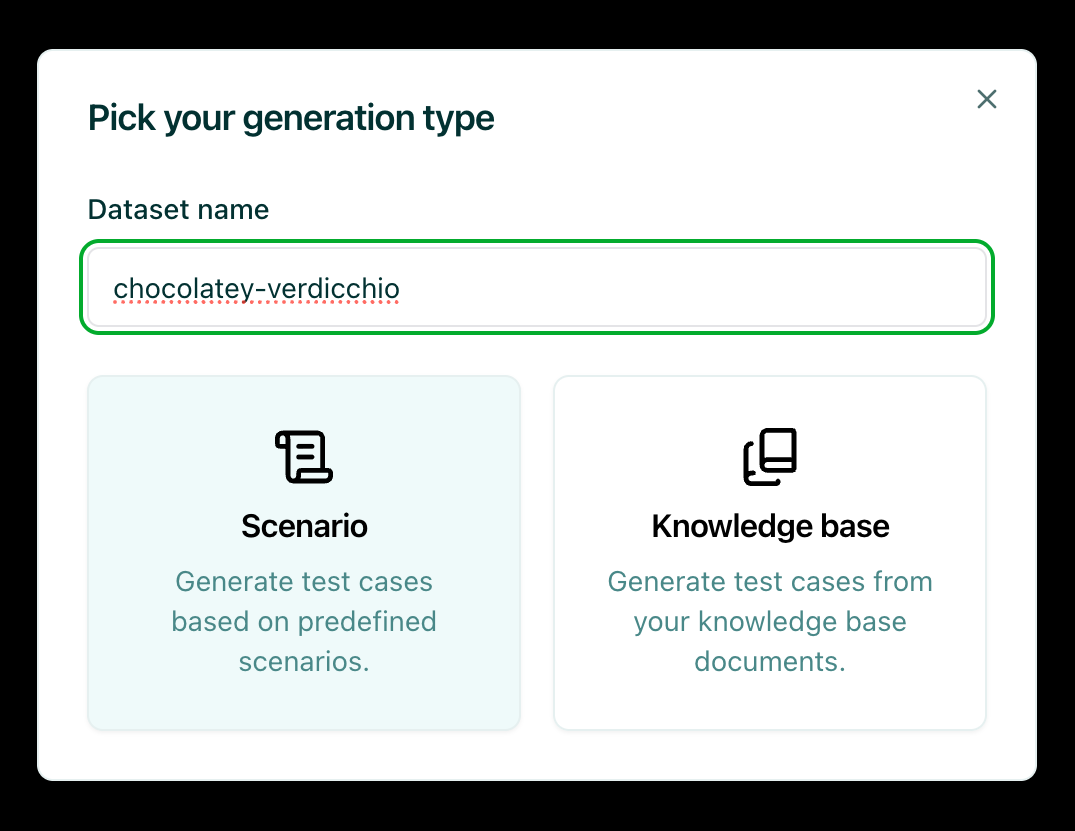
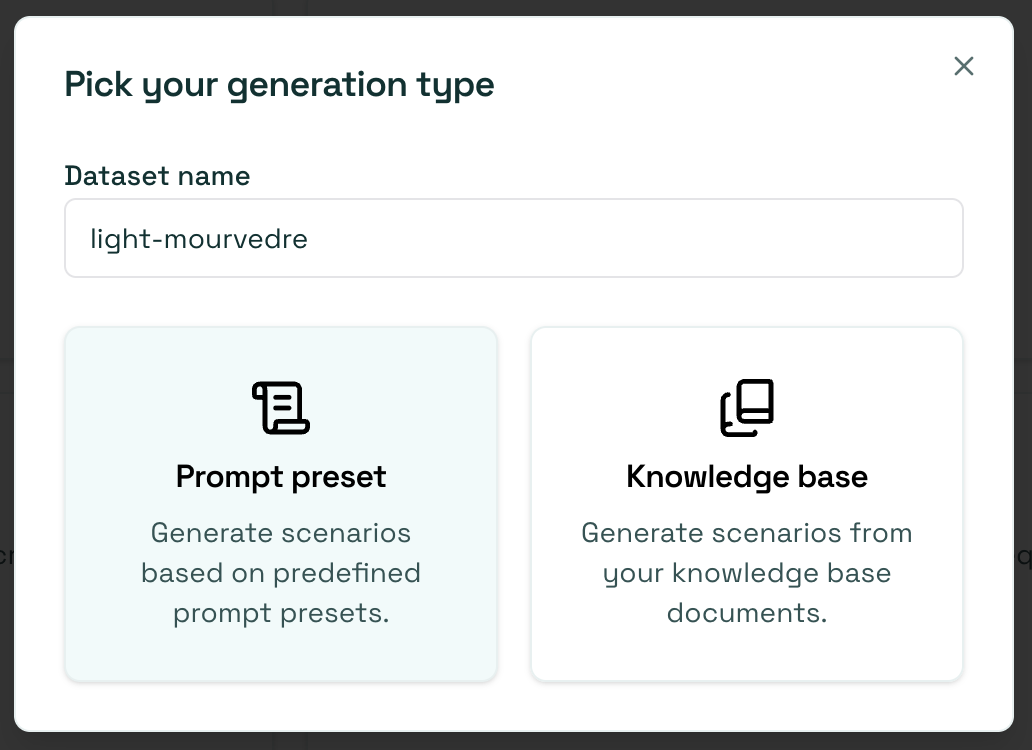
Refresh prompt preset scenarios page for new generation flow

diff --git a/src/content/docs/hub/ui/datasets/prompt-preset.md b/src/content/docs/hub/ui/datasets/prompt-preset.md
@@ -20,26 +20,28 @@ By moving from generic stress testing to rule-driven scenarios, you get higher q
 
 ## Getting started
 
-To begin, navigate to the Datasets page and click **Generate** in the upper-right corner of the screen. This will open a modal with two options: Knowledge Base and Prompt preset. Select the **Prompt preset** option.
+To begin, navigate to the Datasets page and click **Generate** in the upper-right corner of the screen. This opens the **Pick your generation type** modal with two options: Prompt preset and Knowledge base. Select the **Prompt preset** option.
 
 ![Select prompt preset option from generation modal](/_static/images/hub/scenario-select.png)
 
-## Select or create a persona
+Starting from the Datasets page, the modal also asks for a **Dataset name**: the scenarios land in a new dataset created on the fly. Starting the generation from within an existing dataset skips this and adds the scenarios to that dataset.
 
-You'll see a subset of all the personas that you've defined---the user personas that might interact with your bots. You can select an existing one or create a new one.
+## Select or create a prompt preset
 
-![Persona selection interface for prompt preset testing](/_static/images/hub/scenario-persona-choose.png)
+Generation runs as a two-step flow. In step 1, **Choose or create**, you pick a prompt preset: a reusable bundle of personas, topics, tone, and rules that shapes the scenarios. Select one of the built-in presets or create your own.
 
-When creating a new persona, it's always nice to have:
+![Prompt preset selection interface](/_static/images/hub/scenario-persona-choose.png)
 
-- **A descriptive name**: This helps identify the persona quickly
-- **A description**: This helps with the generation understanding and ensures the generated scenarios align with your intended persona
+When creating a new prompt preset, it's always nice to have:
+
+- **A descriptive name**: This helps identify the preset quickly
+- **A description**: This guides the generation and keeps the scenarios aligned with your intended personas
 
 ## Define rules
 
 You can then add specific rules that define behaviors your agent should respect and that are at risk of being broken when interacting with the selected personas. These rules help evaluate different persona situations and will be used to generate scenarios that specifically test whether your agent maintains these behaviors.
 
-![Persona configuration form with name, description, and rules](/_static/images/hub/scenario-persona-create.png)
+![Add prompt preset form with name, description, and rules](/_static/images/hub/scenario-persona-create.png)
 
 For example:
 
@@ -49,18 +51,19 @@ For example:
 - **Persona**: Crypto investor seeking investment advice
 - **Rules**: Refuse to provide unauthorized financial advice and avoid making specific investment recommendations
 
-After defining a set of rules, you can add them to the prompt preset.
+After defining a set of rules, click **Add** to save the prompt preset.
 
 ## Generate scenarios
 
-Once you've configured your persona and rules, you can:
+Step 2, **Review**, shows the selected preset and its rules. Set:
 
-- **Select your agent**: Choose the agent you want to test (e.g., Zephyr Bank multilingual agent)
-- **Set the number of scenarios**: Specify how many scenarios you want to generate
+- **Agent**: the agent you want to test.
+- **Target key**: the output field the generated checks evaluate. It defaults to the assistant response for a chat agent, or to the first available path in the schema for a structured agent, and you can point it elsewhere. The preset's rules are turned into a conformity check on this key. See [Annotate](/hub/ui/annotate) for how target keys and checks work.
+- **Number of scenarios**: how many scenarios to generate.
 
-![Prompt preset generation settings with agent and scenario count](/_static/images/hub/scenario-generate.png)
+![Prompt preset generation settings with agent, target key, and scenario count](/_static/images/hub/scenario-generate.png)
 
-Start running the generation, which will be relatively quick. After running the generation, you'll have high-quality evaluated datasets.
+Click **Generate**. It runs relatively quickly, and you end up with a high-quality, evaluated dataset.
 
 ## Review and evaluate
 
